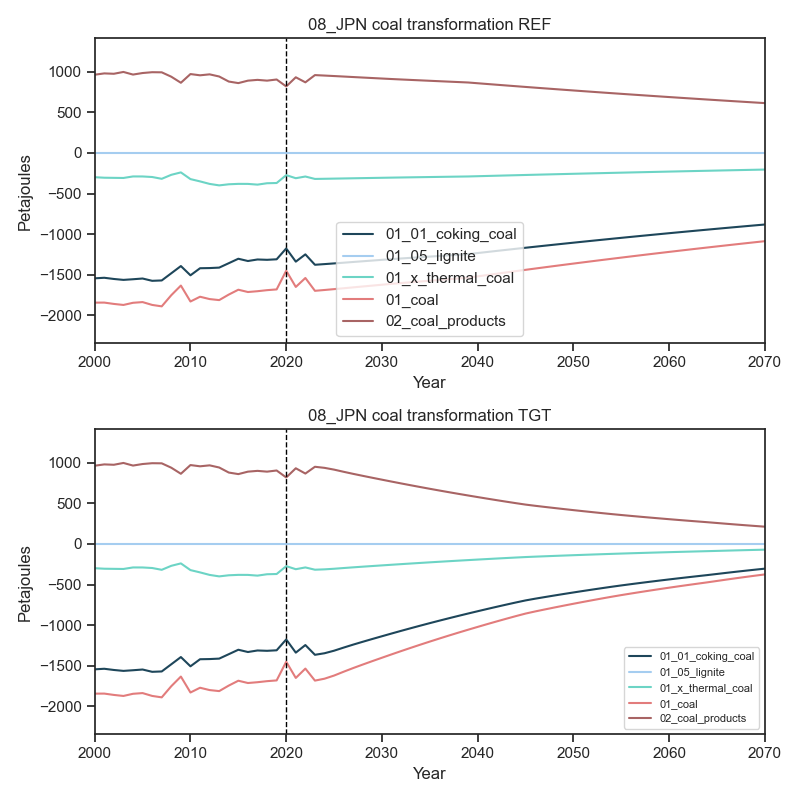
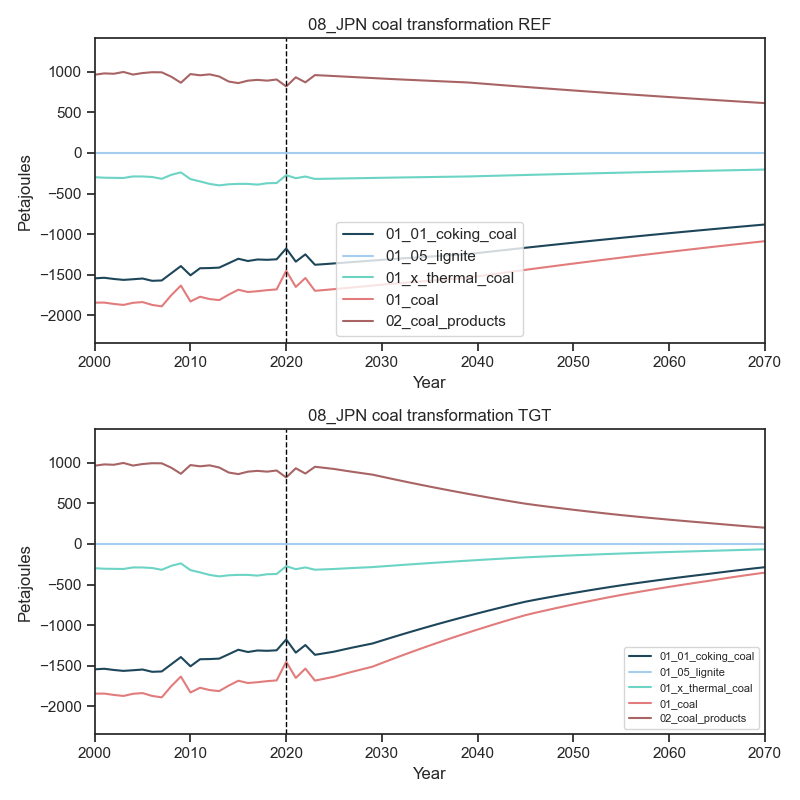
27Sep2023

diff --git a/workflow/scripts/f4_run_fuel_switch_projection.py b/workflow/scripts/f4_run_fuel_switch_projection.py
@@ -157,8 +157,8 @@ fuel_switch(economy = '08_JPN', sector = ind1[1])
 
 # Iron and steel
 fuel_switch(economy = '08_JPN', sector = ind2[0], elec_rate_ref = 0.001, elec_rate_tgt = 0.005, 
-            hydrogen_ref = True, ccs_ref = False, hydrogen_tgt = True, hyd_start_tgt = 2025, ccs_tgt = True, 
-            c2g_rate_tgt = 0.003) 
+            hydrogen_ref = True, ccs_ref = False, hydrogen_tgt = True, hyd_start_tgt = 2030, hyd_increment_tgt = 0.012,
+            ccs_tgt = True, c2g_rate_tgt = 0.003, hyd_fuel_mix = {'16_x_hydrogen': 0.6, '17_electricity': 0.4}) 
 
 # Chemicals
 fuel_switch(economy = '08_JPN', sector = ind2[1], elec_rate_ref = 0.0025, elec_rate_tgt = 0.005,

diff --git a/workflow/scripts/f7_subfuels_industry.py b/workflow/scripts/f7_subfuels_industry.py
@@ -12,7 +12,7 @@ with open(config_file) as infile:
 # Only use 21 APEC economies (economy_list defined in config file)
 economy_select = economy_list[:-7]
 # Only run one economy option
-# economy_select = economy_select[10:11]
+# economy_select = economy_select[7:8]
 
 # Energy industry subsectors
 industry_sectors = pd.read_csv('./data/EGEDA/industry_egeda.csv', header = None)\

diff --git a/workflow/scripts/f6_aggregate_industry.py b/workflow/scripts/f6_aggregate_industry.py
@@ -12,7 +12,7 @@ with open(config_file) as infile:
 # Only use 21 APEC economies (economy_list defined in config file)
 economy_select = economy_list[:-7]
 # Just choose one economy
-# economy_select = economy_select[17:18]
+# economy_select = economy_select[7:8]
 
 # Energy industry subsectors
 industry_sectors = pd.read_csv('./data/EGEDA/industry_egeda.csv', header = None)\

diff --git a/workflow/scripts/f12_final_charts.py b/workflow/scripts/f12_final_charts.py
@@ -12,7 +12,7 @@ with open(config_file) as infile:
 # Only use 21 APEC economies (economy_list defined in config file)
 economy_select = economy_list[:-7]
 # Only run one economy
-# economy_select = economy_list[4:5]
+# economy_select = economy_list[7:8]
 
 # Energy industry subsectors
 industry_sectors = pd.read_csv('./data/EGEDA/industry_egeda.csv', header = None)\
